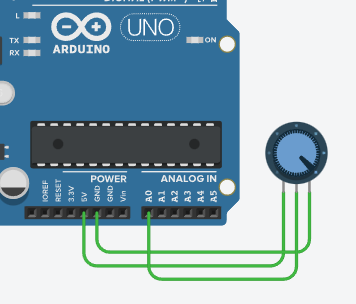
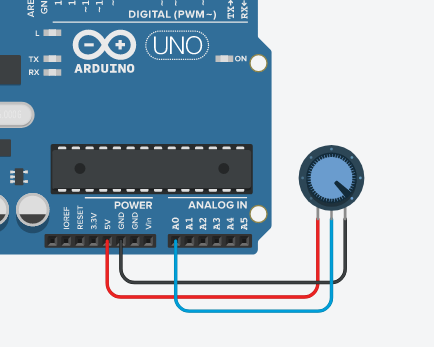
add latihan potentiometer

Changed region(s): [[0.0, 0.0, 0.927, 0.9474]]

diff --git a/komponen-potensiometer.md b/komponen-potensiometer.md
@@ -1,0 +1,20 @@
+# Mengenal Potensiometer
+
+Potensiometer berfungsi seperti resistor yang bisa diatur besarannya oleh user. Fungsi ini kita bisa gunakan sebagai media input. Coba buat rangkaian sesuai diagram berikut:
+
+![](res/potentiometer.png)
+
+```
+void setup()
+{  	pinMode(0,INPUT);
+  	Serial.begin(9600);
+}
+
+void loop()
+{
+  int x = analogRead(0);  
+  Serial.print("Potentiometer reading = ");
+  Serial.println(x);
+  delay(1000);
+}
+```

diff --git a/latihan/lat-potensio-1.md b/latihan/lat-potensio-1.md
@@ -1,0 +1,12 @@
+# Potensiometer + 3 LED
+
+Buatlah rangkaian berikut:
+
+![](res/potentionmeter-3led.png)
+
+## Soal 1:
+Lengkapi skema diatas dengan program sehingga ketika potentiometer diputar full ke kanan maka ketiga LED menyala.
+
+## Referensi:
+- [Komponen: Potensiometer](../komponen-potensiometer.md)
+
